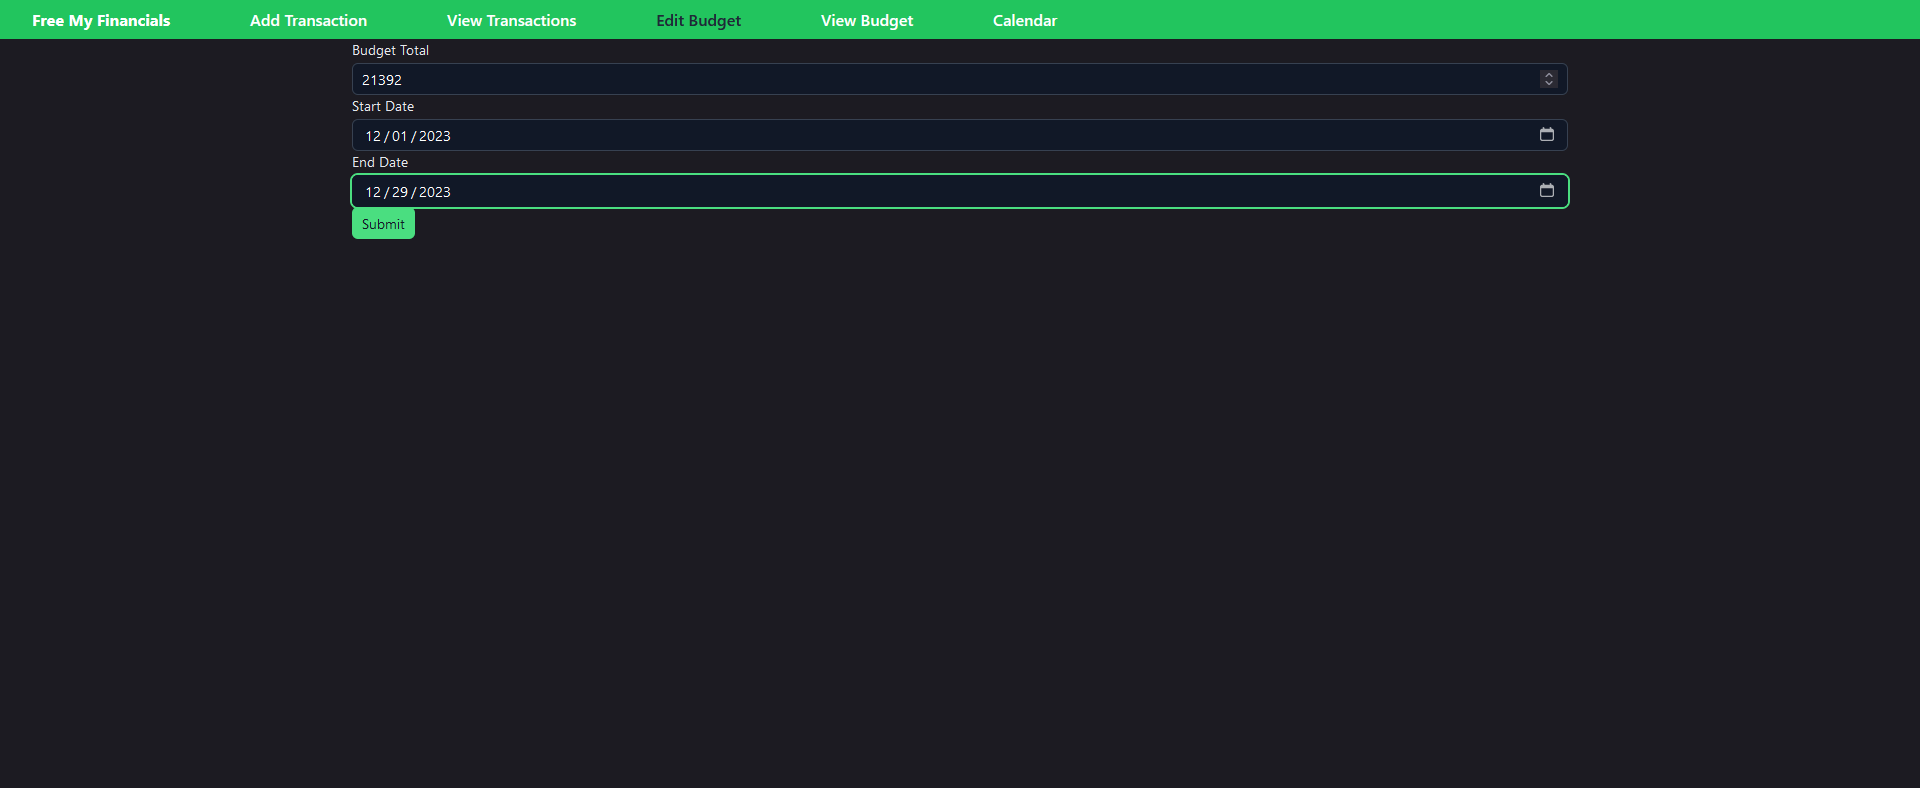
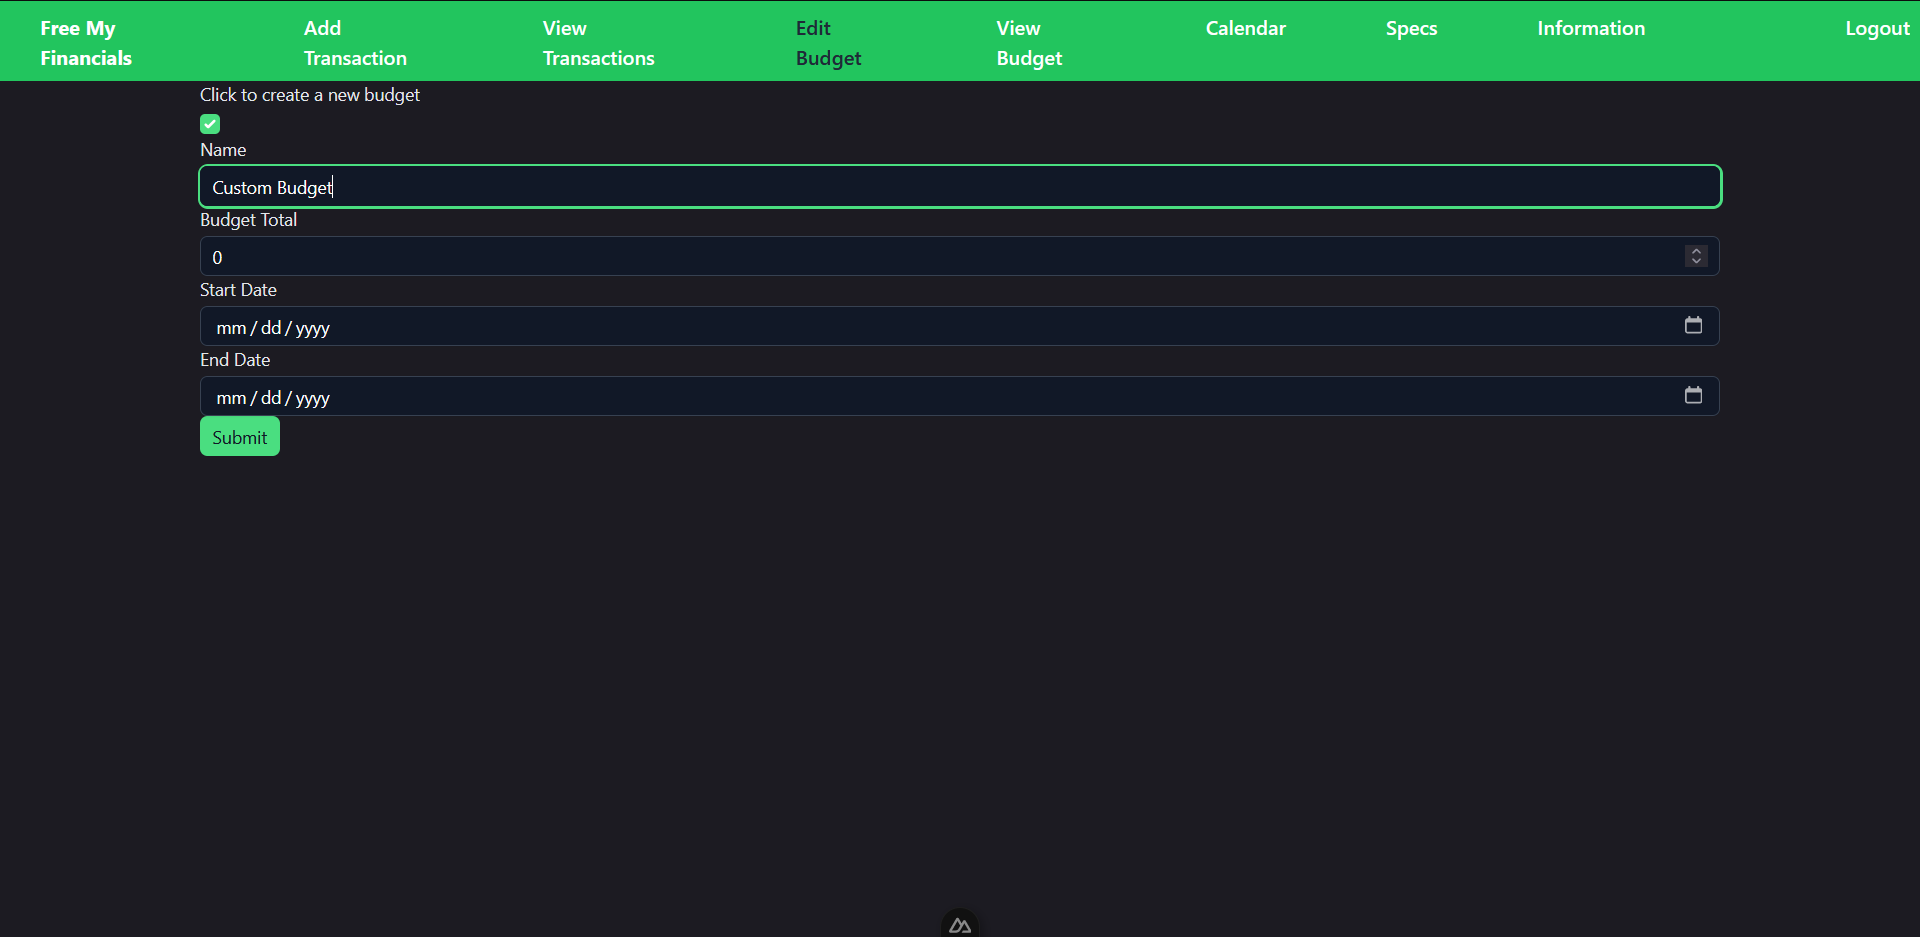
Redocument software user guide based on iteration 4

diff --git a/Documentation/User.md b/Documentation/User.md
@@ -4,18 +4,23 @@
 ![WelcomePage](welcomepage.PNG)
 - From here you can read about the various features, and click on the get started button to be sent to a login page, with a button to allow you to login with a github account, please do this in order to be able to access any of the other resources.
 ![loginwithgithub](loginwithgithub.png)
-- To navigate to pages, click on any of the messages on the top green bar. Free My Financials takes you to the home page. Add Transaction takes you to the add page. View Transactions takes you to the budgeting page. Edit budget takes you to a page to edit budget amount and dates. View budget lets you view that budget. Calender places transactions on various dates.
+- To navigate to pages, click on any of the messages on the top green bar. Free My Financials takes you to the home page. Add Transaction takes you to the add page. View Transactions takes you to the budgeting page. Edit budget takes you to a page to edit budget amount and dates. View budget lets you view that budget. Calender places transactions on various dates. Information takes you to useful links. Specs will show you graphs related to your budget
 ![ClickNav](hoverovertransaction.PNG)
 - To use Free My Financials, you need to add transactions, including paychecks, to record your budget! A budget is simply the amount of money you have. The Add Page allows you to select from a drop down if the transaction is a expense or an income. You can then type out all the other requested information and hit submit to record the transaction. Here is an example paycheck
 ![AddTransaction](fillouttheinfo2.PNG)
+- And here is an example expense. For expenses, you have you select a category with the drop down menu or add a custom category. The following uses the default food category.
+![AddExpense](fillouttheinfo3.PNG)
 - Once you have added your transactions, you can then click the view page. At the top of the page will be your total balance. If you find that a transaction was misentered, you can click the transaction to remove it. In this example, Boger Kong was a incorrect transaction. Once deleted, it will no longer affect your budget.
 ![history](history.PNG)
 - With all that info, you can now track your finances in Free My Financials! Good luck and happy budgeting.
 ![budget](budget.PNG)
-- Whats a budgeting app without a traditional budget. This page works very similar to the add transaction page, but you have two dates, one for when the budget ends and one for when it starts.
+- Whats a budgeting app without a traditional budget. This page works very similar to the add transaction page, but you have two dates, one for when the budget ends and one for when it starts. You can also check the Create A New Budget Box to add a new budget. If not creating a new budget. Fill the name as the budget you want to edit. 
 ![budgetView](budgetView.PNG)
-- In the view budget panel, you have a view similar to history, but the total is based on how much was put into the specific budget
+- In the view budget panel, you have a view similar to history, but the total is based on how much was put into the specific budget. Press the print budget to get this page as a PDF for physical document for your records.
+![pickabudget](pickabudget.png)
+- To change the budget you are viewing, click the Budgets button to open the drop down, then click the budget you want to view. The budget you select here is where transactions will be added and where the specs page displays info. The page will refresh when you select a new budget, do not be alarmed.
+- To create multiple budgets, create a new budget and check the, "Click to create a new budget", checkbox. To view the new budget, go to the View Budget page and click on the new budget in the dropdown.
 ![cak](cal.PNG)
 - The calendar view places transactions on the date they occured in a traditional calander view.
-- To create multiple budgets, create a new budget and check the, "Click to create a new budget", checkbox. To view the new budget, go to the View Budget page and click on the new budget in the dropdown.
-
+![specs](specs.png)
+- Here is the specs page! Mouse over various graphs to learn specific data about your spending. You can also change the month using the buttons at the top of the page. At the buttom of this page it will inform you if you are below or above your current budget.
